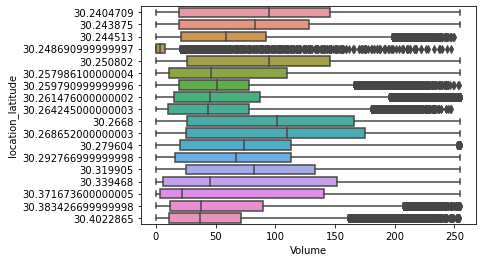
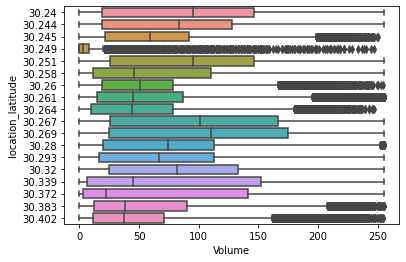
predictors selection, part 2

diff --git a/radar_traffic_code.py b/radar_traffic_code.py
@@ -4,8 +4,10 @@
 # IMPORT LIBRARIES
 ###################################################################
 import pandas as pd
+import numpy as np
 import os
 import seaborn as sns
+from sklearn import preprocessing
 
 
 
@@ -69,11 +71,29 @@ ax = sns.boxplot(x="Day", y="Volume", data=data)
 ax = sns.boxplot(x="Day of Week", y="Volume", data=data)
 
 # Boxplots: Volume-Location
+data.location_latitude = data.location_latitude.apply(lambda x: round(x,3))
+data.location_longitude = data.location_longitude.apply(lambda x: round(x,3))
 ax = sns.boxplot(x="Direction", y="Volume", data=data)
 ax = sns.boxplot(y="location_name", x="Volume", data=data, orient="h")
 ax = sns.boxplot(y="location_longitude", x="Volume", data=data, orient="h")
 ax = sns.boxplot(y="location_latitude", x="Volume", data=data, orient="h")
 
+
+# Normalize longitude and latitude variables:
+min_max_scaler = preprocessing.MinMaxScaler()
+
+def normalize(df, column):
+    x = df[column].values
+    x = np.reshape(x, (-1,1))
+    x = min_max_scaler.fit_transform(x)
+    df[column] = pd.Series(np.reshape(x, (-1)))
+    return df
+
+data = normalize( data, "location_latitude")
+data = normalize( data, "location_latitude")
+
+# drop columns we won't use for prediction: 
+data = data.drop(['Year', 'location_name', 'Day'], axis=1)
 
 ###################################################################
 # 
